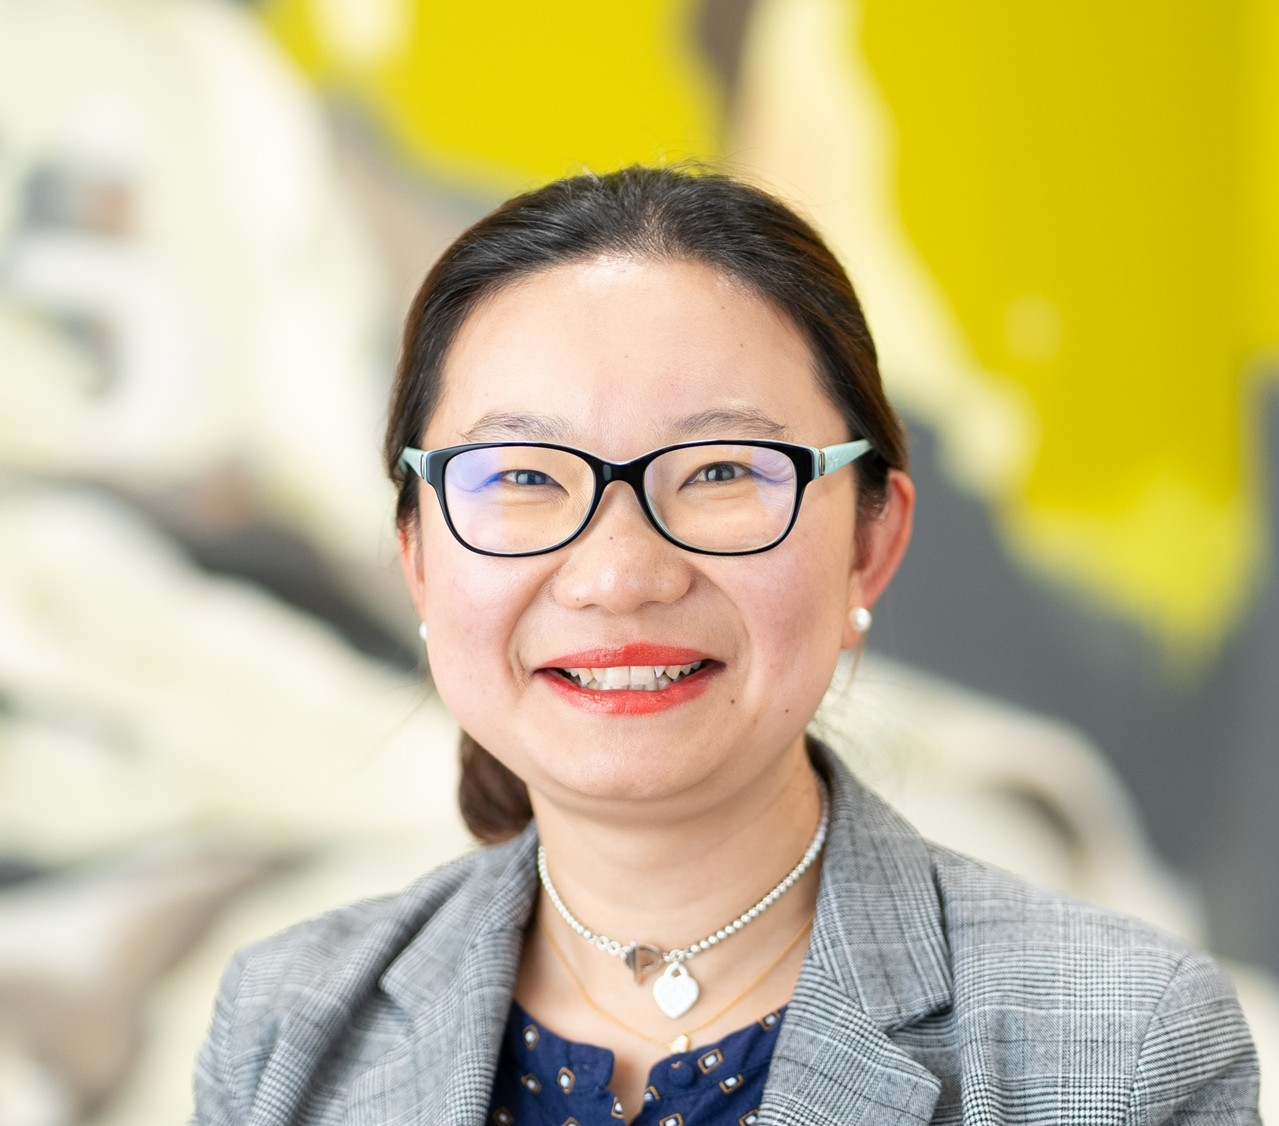
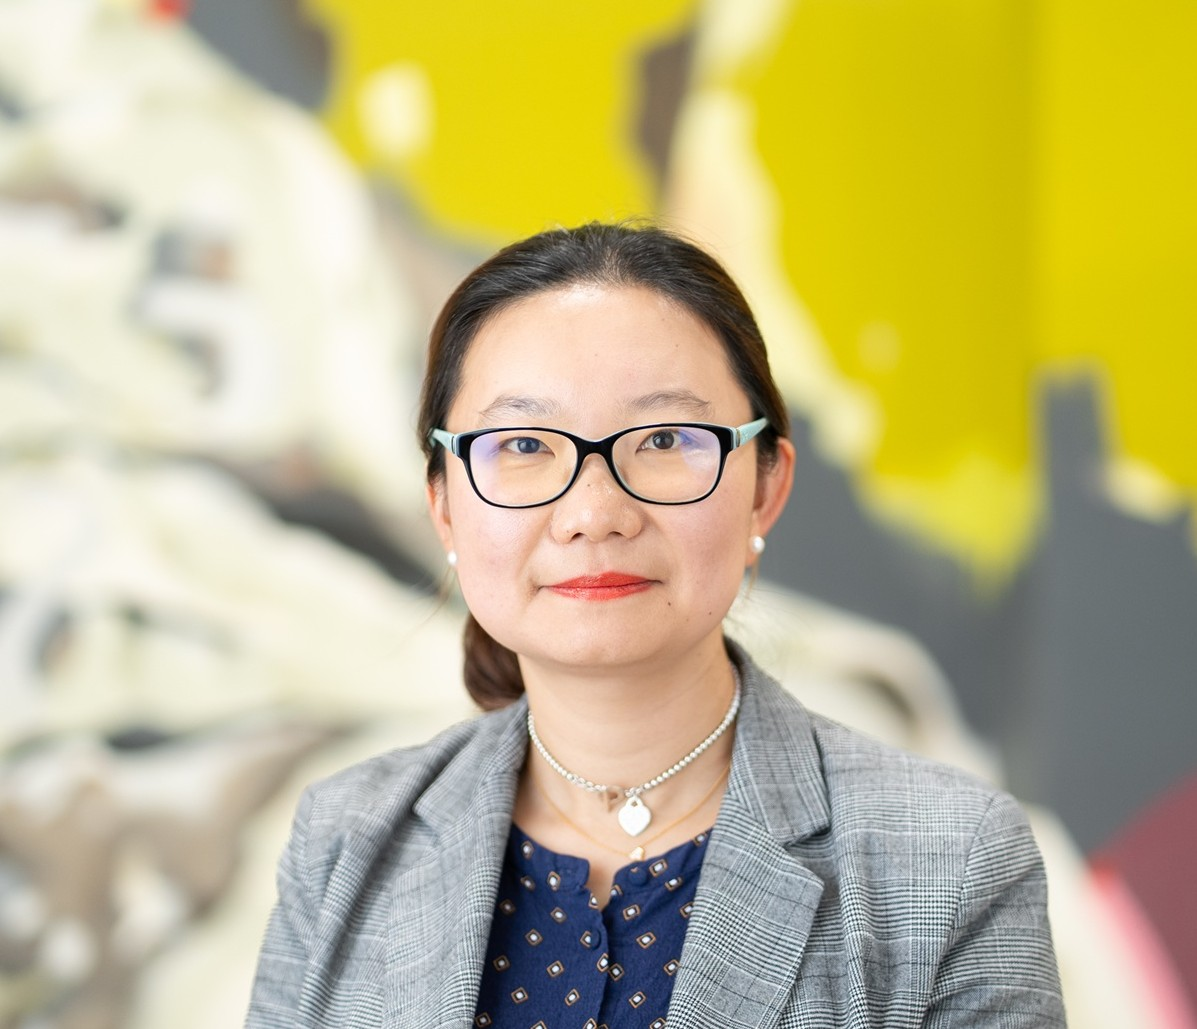
update

diff --git a/components/sections/sg-forms/SGFormsDocuments.tsx b/components/sections/sg-forms/SGFormsDocuments.tsx
@@ -11,7 +11,10 @@ type FormItem = {
 
 const engagementForms: FormItem[] = [
   { label: "Terms and Conditions", file: "TermsandConditions.pdf" },
-  { label: "Direct Debit Agreement", file: "SG-Direct-Debit-Agreement-2021.pdf" },
+  {
+    label: "Direct Debit Authority Service Agreement",
+    file: "SG-Direct-Debit-Agreement-2021.pdf",
+  },
   { label: "Financial Services Guide", file: "Financial-Services-Guide.pdf" },
 ];
 